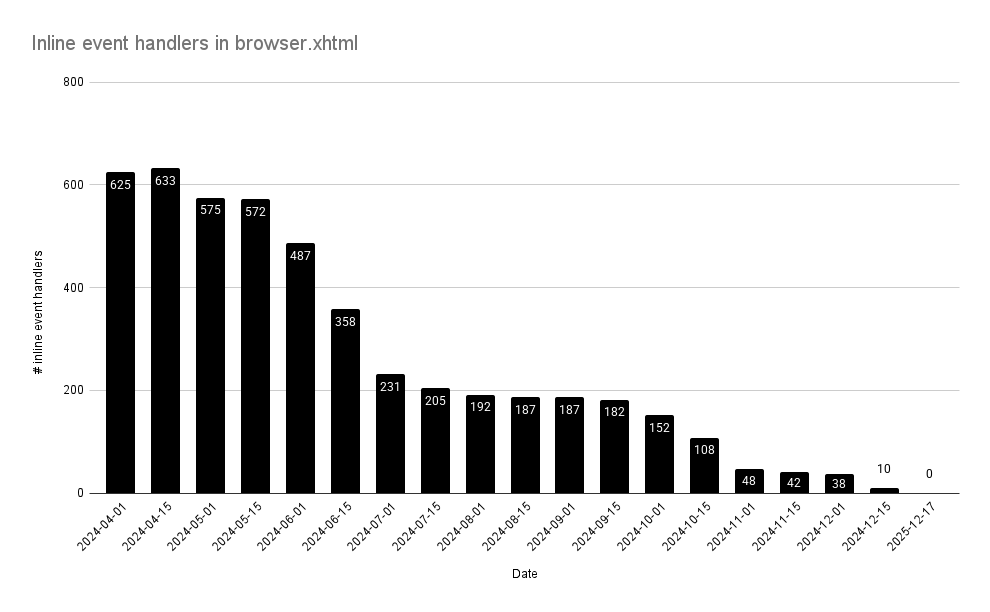
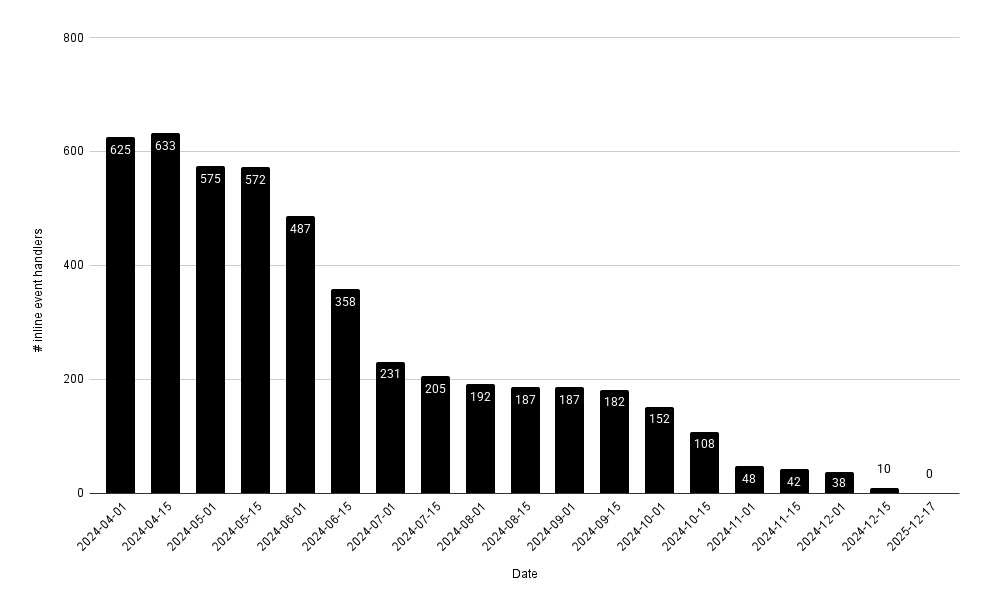
some code formatting fixes

diff --git a/_posts/2025-04-09-hardening-the-firefox-frontend-with-content-security-policies.md b/_posts/2025-04-09-hardening-the-firefox-frontend-with-content-security-policies.md
@@ -1,7 +1,7 @@
 ---
 layout: post
 title:  "Hardening the Firefox Frontend with Content Security Policies"
-date:   2025-04-09 10:00:00 +0100
+date:   2025-04-09 00:00:00 +0100
 author: Tom Schuster, Frederik Braun, Christoph Kerschbaumer
 ---
 
@@ -21,11 +21,11 @@ Figure 1: Showing the number of inline event handlers in browser.xhtml over time
 
 ### Interlude: How to replace inline event handlers
 
-In case you are a Firefox developer, the maintainer of a Firefox fork like the Tor Browser, or just a web developer interested in securing your own website, the following might be relevant to you. The process of removing inline event handlers usually involves finding all the places that define an inline event handler like `<button onclick=”buttonClicked()”>` and then replacing this with a call to `addEventListener` from a new JS file. Roughly like this:
+In case you are a Firefox developer, the maintainer of a Firefox fork like the Tor Browser, or just a web developer interested in securing your own website, the following might be relevant to you. The process of removing inline event handlers usually involves finding all the places that define an inline event handler like `<button onclick="buttonClicked()">` and then replacing this with a call to `addEventListener` from a new JS file. Roughly like this:
 
 ```
-let button = document.querySelector(“button”);  
-button.addEventListener(“click”, buttonClicked);
+let button = document.querySelector("button");  
+button.addEventListener("click", buttonClicked);
 ```
 
 However there are some important differences to keep in mind between JS code running as inline event handlers and normal event handlers. Firstly, it’s possible to `return false;` from the inline event handler, which is equivalent to calling `event.preventDefault()`. Also note that `this`, which is `event.currentTarget` for inline event handlers, would change if you replaced it with an [arrow function](https://developer.mozilla.org/en-US/docs/Web/JavaScript/Reference/Functions/Arrow_functions) as an event listener. 
